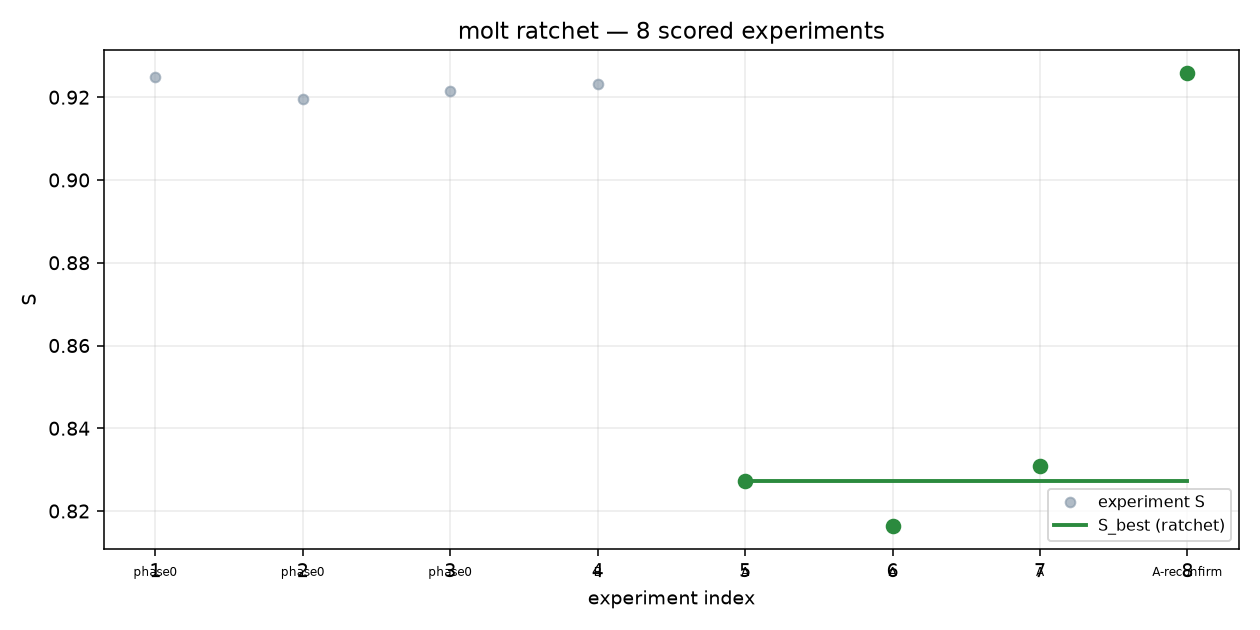
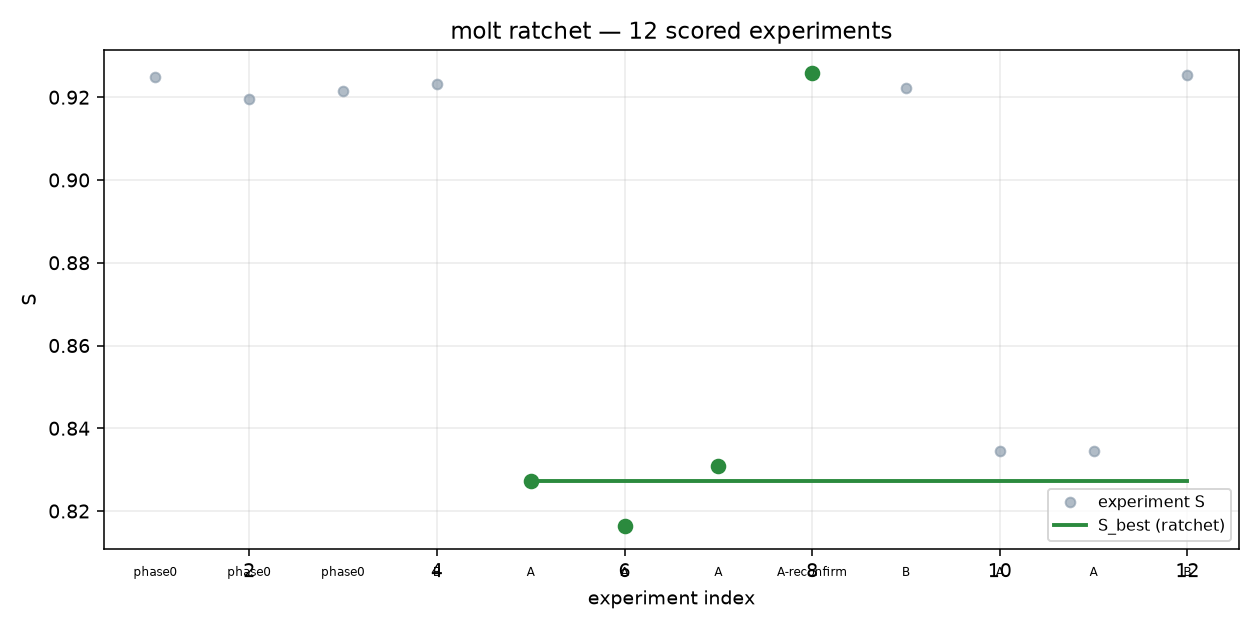
session 20260704 closed: local search program COMPLETE (4 discards w/ mechanisms, 1 calibration); Nemotron restore next
Claude-Session: https://claude.ai/code/session_01FESmWgUFQFi88v7LxmyGw6

diff --git a/notes/session-20260704.md b/notes/session-20260704.md
@@ -48,3 +48,22 @@ failed ⇒ activation magnitude does not predict behavioral recovery. Gate/up is
 routed surface; +0.25 bpw on the 8 highest-energy layers is the last in-budget recipe move of
 this line. Full-S verdict (quality lane). If this dies too: recipe search at 2.4 bpw is
 declared locally optimal; remaining quality lever = imatrix v2 / LoRA (offsite).
+
+## Session close (2026-07-05 04:30Z)
+
+| exp | tier | change | verdict |
+|---|---|---|---|
+| exp005 | B | embd/output Q8→Q6_K (payer) | DISCARD: nested −3-4 cases — embd Q8 floor CONFIRMED load-bearing |
+| lite-eps | cal | 4 lite replicas (1 owner-contaminated) | ε_lite=0.041 (8× full); contamination = 1.33σ non-event; speed-lane doctrine set |
+| exp007 | A | ngram-simple speculation | DISCARD: decode −10% — verify overhead > acceptance on think-streams |
+| exp008 | A | 9B same-family drafter | DISCARD: decode −34% — **speculation INVERTS on CPU-resident MoE** (batch-verify streams k× experts); EAGLE-3 plan killed |
+| exp009 | B | top-energy gate/up 52-59 → IQ2_XS | DISCARD: nested flat — third surface closed |
+
+**Session conclusion: the local search program is COMPLETE.** Recipe locally optimal at 2.41
+bpw under imatrix v1 (three surfaces falsified + embd floor confirmed); serving config optimal
+at 10 GPU expert layers (saturation measured); speculation family falsified with mechanism.
+S_best stands at 0.9258 (reconfirm-20260703 config). Next quality lever is OFFSITE: HG1 →
+imatrix v2 (Tier C, reopens the recipe search on new calibration) → LoRA recovery (~$1.5K,
+the sole surviving big-ticket play — EAGLE-3 cancelled by exp008's physics).
+Local box: idle after this close → Nemotron service RESTORED per X-restore obligation
+(molt re-negotiates GPUs when Tier C arrives).
